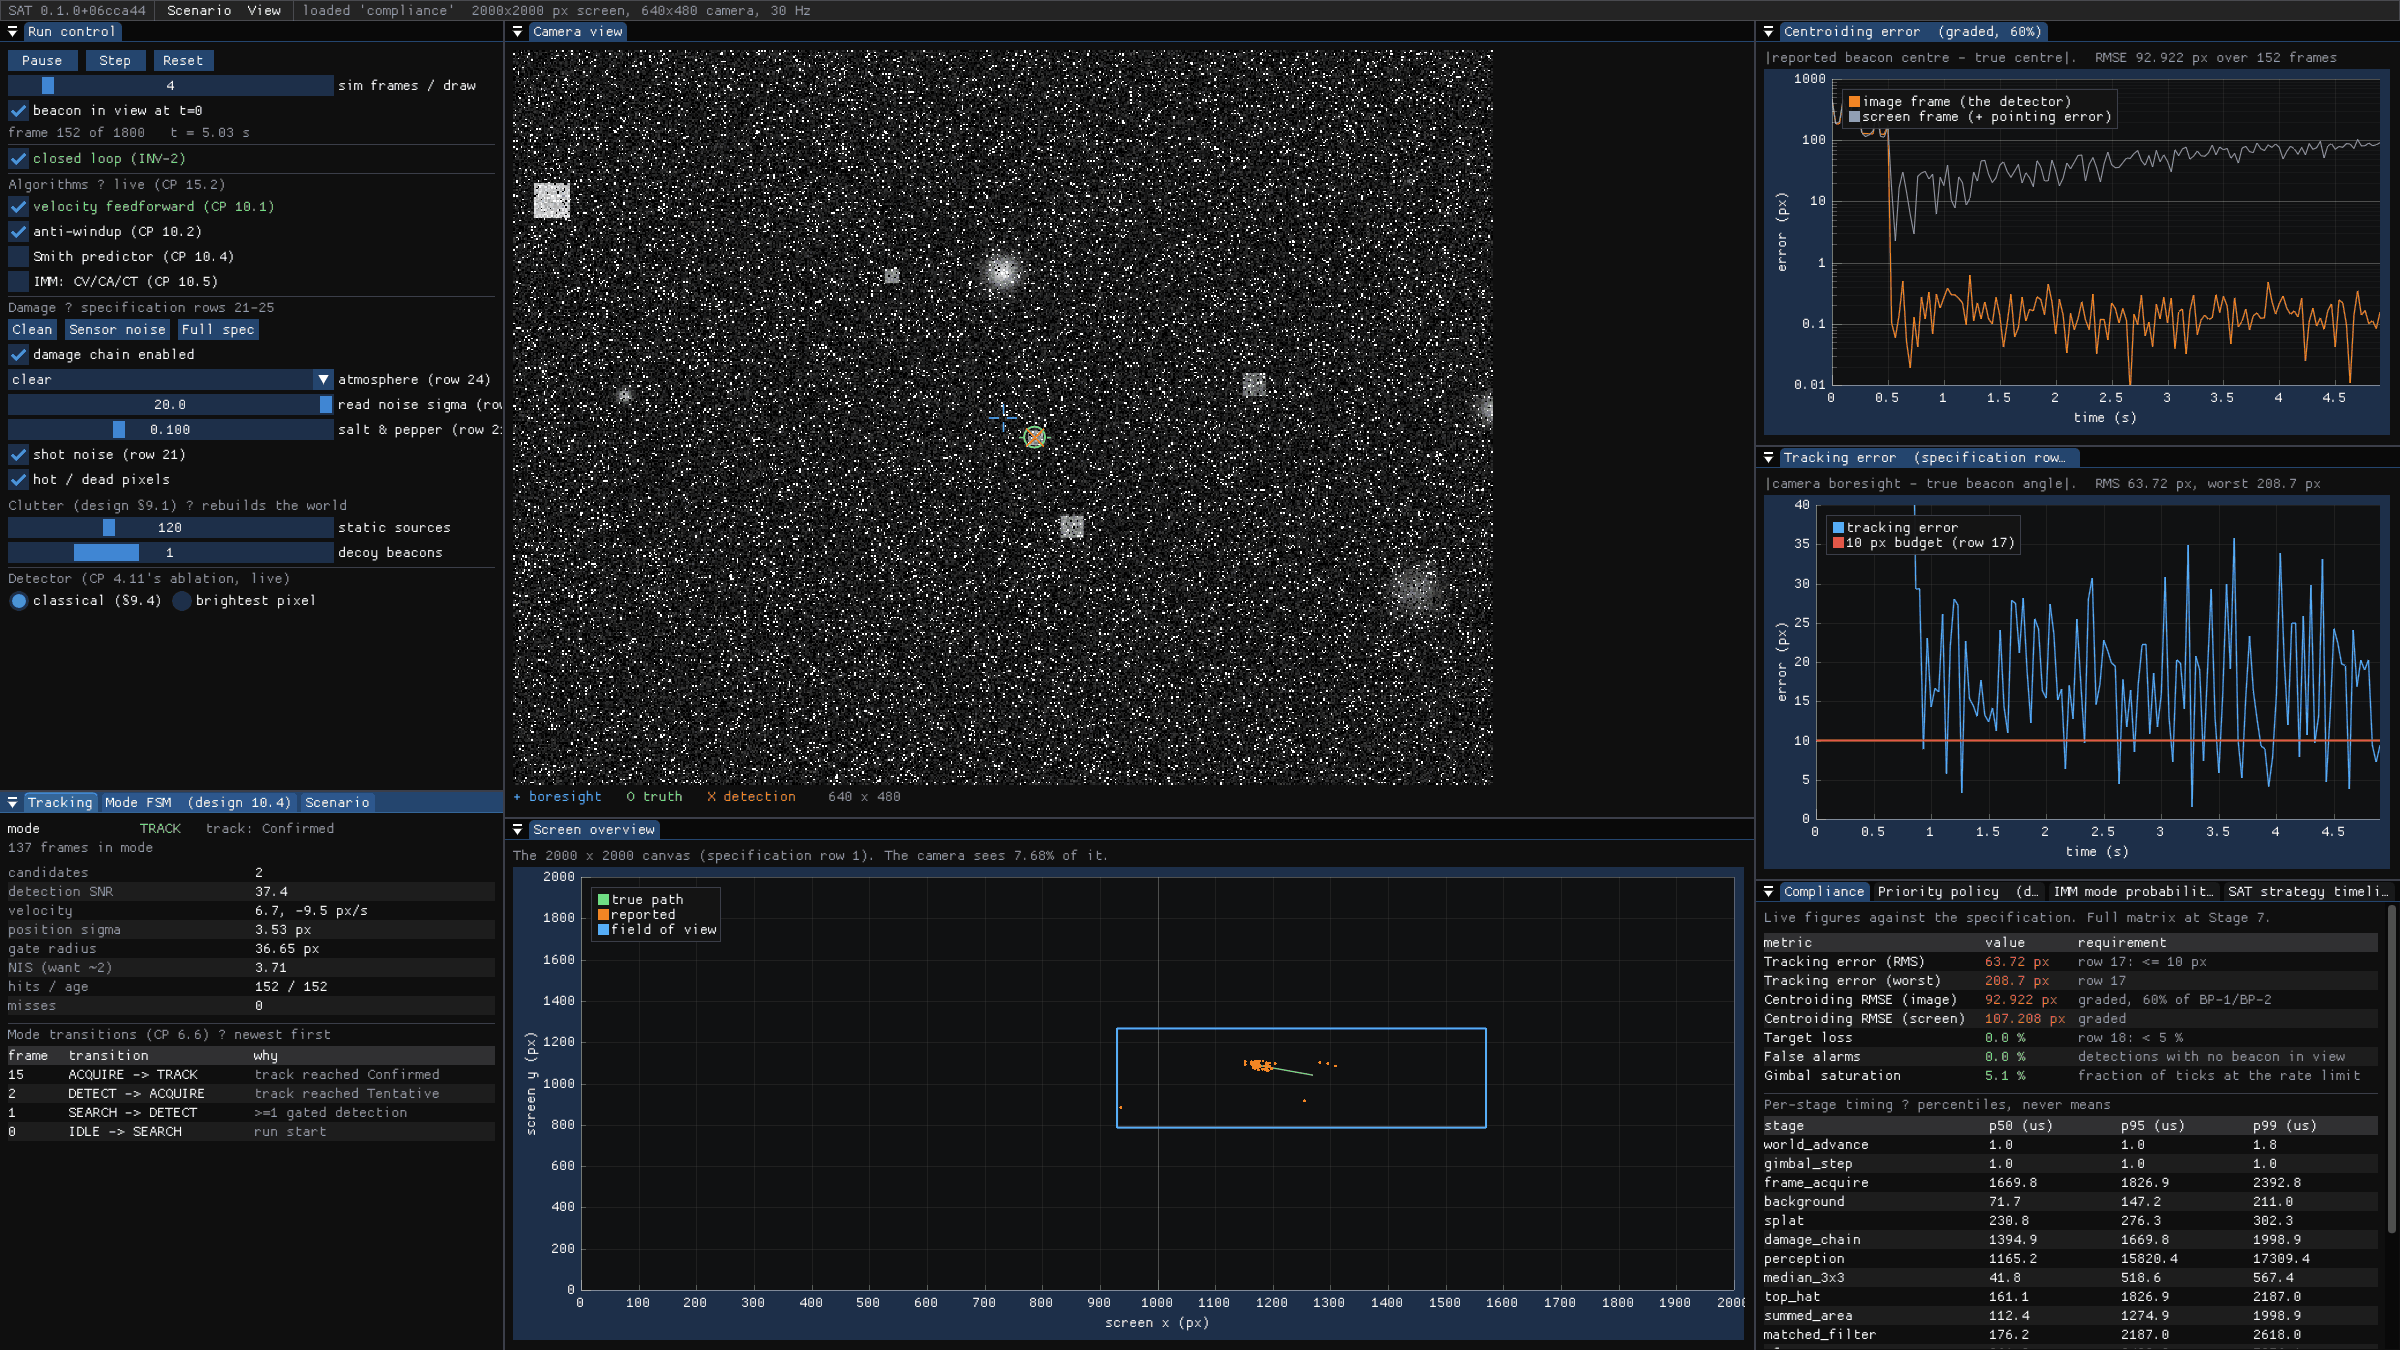
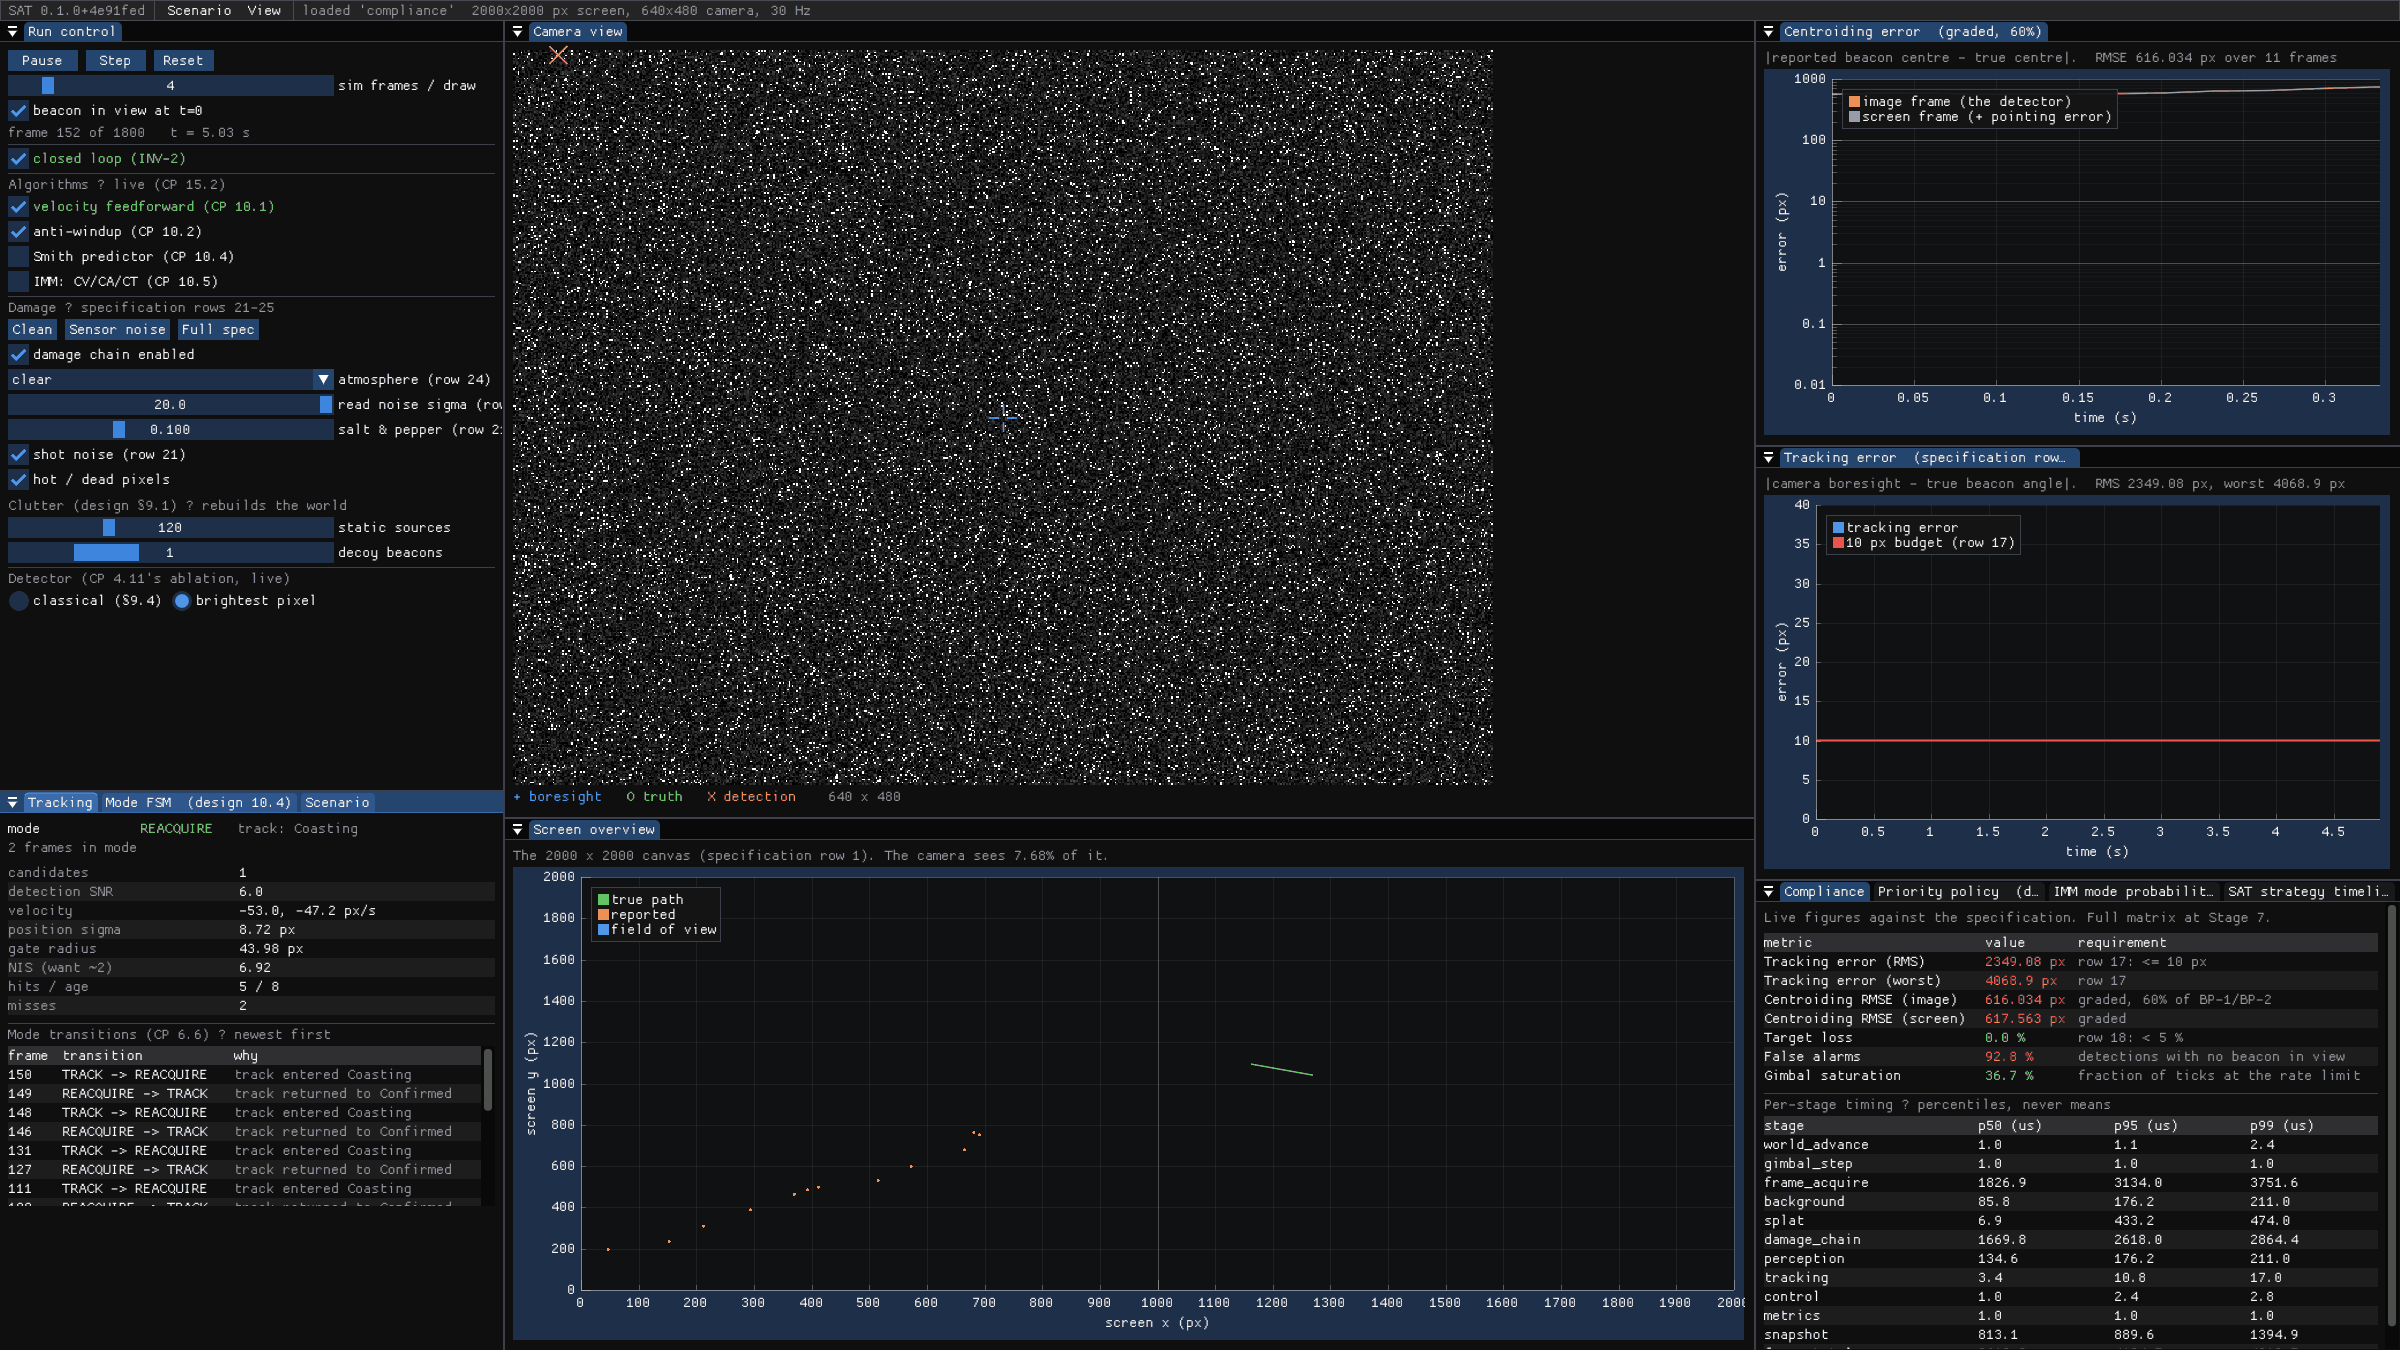
fix(gui,docs): the straw-man figure was not showing the straw man, and the blob bound had nowhere to report itself
Three things, all of them "the claim and the artefact disagreed".

1. docs/img/06-strawman.png showed the CLASSICAL detector.

   The guide's §3 tells you to switch to the brightest-pixel detector and watch
   the lock fail, and the figure under it was captioned as that happening. It
   was not: ScreenshotJob had no way to select a detector, so the shot ran
   §9.4's pipeline with the radio button plainly showing "classical" — and the
   caption described a centroid marker sitting on a salt-and-pepper pixel,
   which was not in the image either.

   ScreenshotJob gains `strawman` and main.cpp gains `--shot-strawman`, applied
   after rebuild() (the detector is pipeline state) and before the first step
   (so every frame in the figure ran through the detector it claims to show).
   The Justfile's 06 line is now byte-identical to 03's except for that flag,
   which makes the figure the ablation rather than an illustration of it.

   What it shows now, against 03's identical run:

     tracking error RMS      63.7 px  ->  2,349 px
     tracking error worst   208.7 px  ->  4,068.9 px
     centroiding RMSE        92.9 px  ->  616.0 px
     false alarms              0.0 %  ->  92.8 %
     gimbal saturation         5.1 %  ->  36.7 %

   plus TRACK->REACQUIRE thrashing every two or three frames and a reported
   trail wandering off a diagonal while the true path sits elsewhere. The
   caption now states the numbers instead of a mood.
[…]

diff --git a/src/gui/dashboard.cpp b/src/gui/dashboard.cpp
@@ -1277,6 +1277,21 @@ void Dashboard::draw_scenario_panel() {
                       / (deg_to_urad(scenario_.max_pan_dps) / cam.ifov_urad()
                          / scenario_.camera_hz));
     ImGui::Text("emitters in world %zu", pipeline_.source().emitters().n);
+
+    // §9.4.6's blob table is bounded (design amendment §14.0e). Show the count
+    // always, and shout when the bound binds: a truncated frame produces a
+    // SHORTER detection list, which is indistinguishable from a clean frame
+    // unless something says so.
+    const size_t blobs    = pipeline_.perception().last_blob_count();
+    const size_t overflow = pipeline_.perception().last_blob_overflow();
+    if (overflow > 0) {
+        ImGui::TextColored(ImVec4(1.0f, 0.4f, 0.3f, 1.0f),
+                           "blobs             %zu  (+%zu DROPPED, table full)",
+                           blobs, overflow);
+    } else {
+        ImGui::Text("blobs             %zu / %zu", blobs,
+                    ClassicalPerception::kBlobReserve);
+    }
     ImGui::End();
 }
 
@@ -1378,6 +1393,13 @@ int Dashboard::run(const Scenario& initial, ScreenshotJob job) {
     }
 
     rebuild(initial);
+
+    // After rebuild(), because rebuild() constructs the pipeline and the
+    // detector is pipeline state. Before the first step, so every frame in the
+    // shot ran through the detector the figure claims to be showing.
+    if (!job_.path.empty() && job_.strawman) {
+        pipeline_.set_detector(DetectorKind::BrightestPixel);
+    }
 
     int64_t shot_countdown = job_.path.empty() ? -1 : job_.after_frames;
 

diff --git a/src/app/main.cpp b/src/app/main.cpp
@@ -178,6 +178,7 @@ int gui_command(int argc, char* argv[], int& i) {
         else if (std::strcmp(a, "--shot-supervisor") == 0) { job.supervisor = true; }
         else if (std::strcmp(a, "--shot-damage")     == 0) { job.damage = true; }
         else if (std::strcmp(a, "--shot-random")     == 0) { job.random_start = true; }
+        else if (std::strcmp(a, "--shot-strawman")   == 0) { job.strawman = true; }
         else break;
         i = k;
     }
@@ -203,6 +204,7 @@ void print_usage() {
     std::printf("  --gui [--scenario F] open the live dashboard (design §12)\n");
     std::printf("      [--shot FILE] [--shot-after N] [--shot-imm]\n");
     std::printf("      [--shot-supervisor] [--shot-clutter N] [--shot-damage]\n");
+    std::printf("      [--shot-strawman]\n");
     std::printf("                       run N frames, save the window to FILE, exit.\n");
     std::printf("                       Every figure in docs/MANUAL.md is made this\n");
     std::printf("                       way; `just screenshots` regenerates them all\n");

diff --git a/src/engine/events.hpp b/src/engine/events.hpp
@@ -107,7 +107,12 @@ public:
     [[nodiscard]] bool has_occlusions() const noexcept { return has_occlusions_; }
 
     /// The gust offset in force at `t_s`, screen pixels. Zero outside any gust.
-    [[nodiscard]] void gust_offset(double t_s, double& dx, double& dy) const noexcept;
+    ///
+    /// Not [[nodiscard]]: it returns void and writes through `dx`/`dy`, so
+    /// there is nothing to discard. GCC warned about the attribute on every
+    /// translation unit that included this header, which is the kind of noise
+    /// that trains people to stop reading warnings.
+    void gust_offset(double t_s, double& dx, double& dy) const noexcept;
 
     [[nodiscard]] size_t count() const noexcept { return events_.size(); }
     [[nodiscard]] const std::vector<ScheduledEvent>& events() const noexcept {

diff --git a/src/engine/pipeline.hpp b/src/engine/pipeline.hpp
@@ -465,6 +465,14 @@ public:
 
     [[nodiscard]] const PipelineConfig& config() const noexcept { return cfg_; }
 
+    /// The classical detector, for read-only inspection. The dashboard reads
+    /// `last_blob_count()` and `last_blob_overflow()` from it: §14.0e bounds
+    /// the blob table, and a bound whose overflow nothing displays is a bound
+    /// that silently changes the answer.
+    [[nodiscard]] const ClassicalPerception& perception() const noexcept {
+        return perception_;
+    }
+
     [[nodiscard]] const Tracker&       tracker()  const noexcept { return tracker_; }
     [[nodiscard]] const ModeFsm&       fsm()      const noexcept { return fsm_; }
     [[nodiscard]] const SearchPattern& search()   const noexcept { return search_; }

diff --git a/src/gui/dashboard.hpp b/src/gui/dashboard.hpp
@@ -120,6 +120,10 @@ struct ScreenshotJob {
     int  clutter      = -1;    ///< >= 0 overrides the clutter count
     bool damage       = false; ///< start with the damage chain on
     bool random_start = false; ///< honour spec row 11 instead of centring
+    /// Run CP 4.11's straw man (brightest pixel) instead of §9.4's detector.
+    /// The guide's ablation figure has to SHOW the straw man selected, which
+    /// means the shot has to switch it rather than describe it.
+    bool strawman     = false;
     /// Panel to bring to the front of its tab bar before the shot is taken.
     /// Docked panels share a tab bar, so a figure OF a panel has to ask for it.
     std::string focus;

diff --git a/issues_till_now.md b/issues_till_now.md
@@ -105,24 +105,33 @@ does not exist in the video path Benchmark Performance-2 grades.
 - [-] **Emitter splat, the last 5.8×.** Closed as *not worth it*: 231 µs against
       a 2,618 µs frame, and the remaining cost is the outer-product store, which
       is already close to memory bandwidth for the footprint it covers.
-- [~] **The old entry, kept for its argument:** Two further levers, neither taken
-      yet: a Gaussian clutter source is drawn out to 6σ, which is 2.9× more area
-      than the 3.5σ at which its contribution drops below one 8-bit grey level
-      (6σ is required for the *graded* beacon, where truncation biases the
-      centroid — it is not required for clutter); and the inner row loop still
-      carries a per-pixel branch that blocks vectorisation.
-- [ ] **Damage chain.** Five separate full-frame passes (atmosphere, shot noise,
-      read noise, fixed pattern, quantise) over a 1.2 MB float buffer, each one
-      reading and writing it. Two `next_normal()` calls per pixel, each a
-      Marsaglia polar rejection loop with a `log` and a `sqrt`. Needs fusing to a
-      single pass and a vectorised generator.
-- [ ] **The detector runs full-frame in every mode.** 640 × 480 = 307,200
-      pixels of median, top-hat, two summed-area tables, matched filter and two
-      CFAR passes, on every frame, including frames where the tracker already
-      knows where the target is to within a few pixels.
-- [ ] **AVX2 kernels (CP 14.2's second half).** The build has no `-march`
-      beyond baseline x86-64, so every kernel is SSE2. The host supports AVX2
-      and AVX-VNNI.
+#### The original diagnoses, kept because the argument is the record
+
+These four are the entries as first written, before anything was done about
+them. They are checked off against the fixes above rather than deleted: what
+was wrong and *why it was wrong* is the part worth keeping, and a list that
+only shows the answer teaches nobody where the 16× came from.
+
+- [x] **Emitter splat — two further levers.** Both taken. A Gaussian clutter
+      source was drawn to 6σ, 2.9× more area than the 3.5σ at which its
+      contribution drops below one 8-bit grey level (6σ is required for the
+      *graded* beacon, where truncation biases the centroid; it is not required
+      for clutter), and the inner row loop carried a per-pixel branch that
+      blocked vectorisation. 621 µs → 147 µs.
+- [x] **Damage chain.** Was five separate full-frame passes (atmosphere, shot
+      noise, read noise, fixed pattern, quantise) over a 1.2 MB float buffer,
+      each reading and writing all of it, with two `next_normal()` calls per
+      pixel — each a Marsaglia polar rejection loop with a `log` and a `sqrt`.
+      Now one fused pass, one Gaussian draw (variances add), an inverse-CDF
+      sampler built for the call rate, and an AVX2 path. 12,079 µs → 1,395 µs.
+- [x] **The detector ran full-frame in every mode.** 307,200 pixels of median,
+      top-hat, two summed-area tables, matched filter and two CFAR passes on
+      every frame, including frames where the tracker already knew where the
+      target was to within a few pixels. §14.0b's detection window fixed it.
+      17,309 µs → 1,275 µs.
+- [~] **AVX2 kernels (CP 14.2's second half).** The damage chain has its AVX2
+      path with runtime dispatch. The van Herk opening, the matched filter and
+      CFAR do not — see the open entry above, which is the live half of this.
 
 ### 1.5 Downstream of the frame budget
 

diff --git a/docs/GUIDE.md b/docs/GUIDE.md
@@ -123,10 +123,27 @@ measured justification for every kernel in the detector.
 
 ![The straw-man detector losing lock at Full spec damage](img/06-strawman.png)
 
-The centroid marker in the camera view is sitting on a salt-and-pepper pixel
-rather than on the beacon, and the tracking-error trace has walked off the top
-of its axis. Nothing else about the run changed: same scenario, same seed, same
-damage. Only the detector.
+That figure is the ablation itself. It is the **same scenario, same seed, same
+damage and the same 120 clutter sources** as the priority-policy figure further
+down — `just screenshots` generates the two from identical command lines except
+for `--shot-strawman`. Only the detector differs, and the compliance table
+reads:
+
+| | classical (§9.4) | brightest pixel |
+|---|---:|---:|
+| tracking error, RMS | 63.7 px | **2,349 px** |
+| tracking error, worst | 208.7 px | **4,068.9 px** |
+| centroiding RMSE | 92.9 px | **616.0 px** |
+| false alarms | 0.0 % | **92.8 %** |
+| gimbal saturation | 5.1 % | **36.7 %** |
+
+Read the rest of the window and you can watch the failure happen. The mode
+transition list is thrashing `TRACK → REACQUIRE → TRACK` every two or three
+frames. The track is `Coasting` with 5 hits against 8 frames of age. And the
+screen overview shows the reported trail wandering off along a diagonal while
+the true path sits, untouched, on the other side of the canvas — the mount is
+chasing salt-and-pepper noise, and it is chasing it at a third of its rate
+limit.
 
 ### Turn the feedforward off
 
